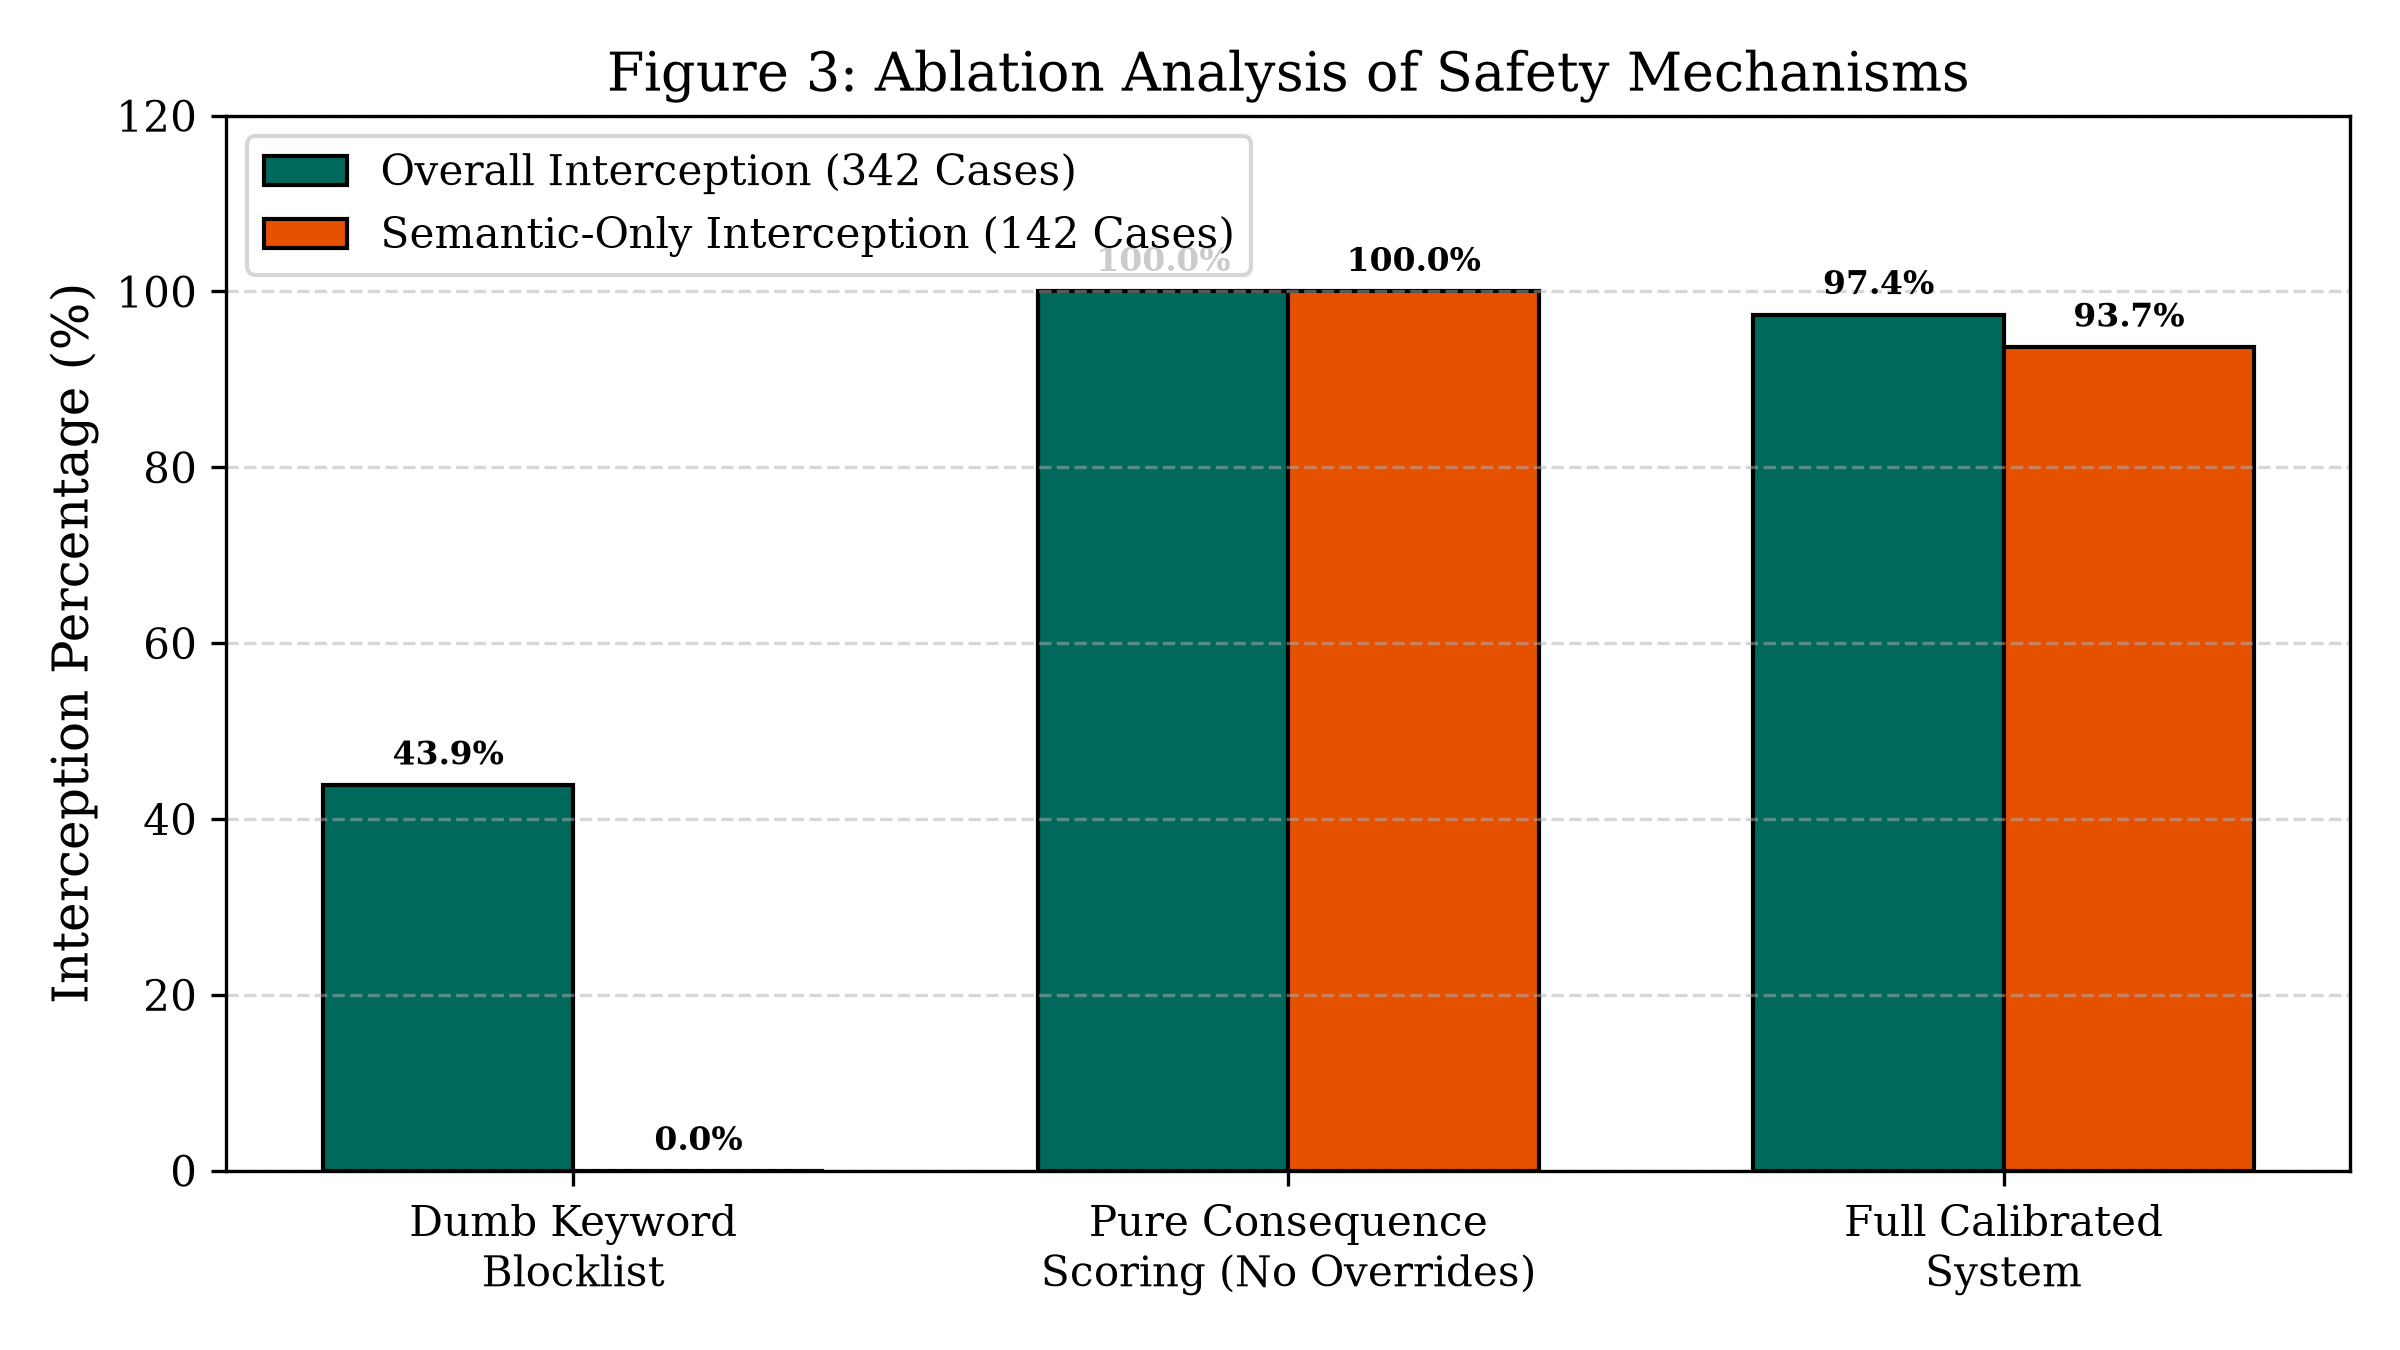
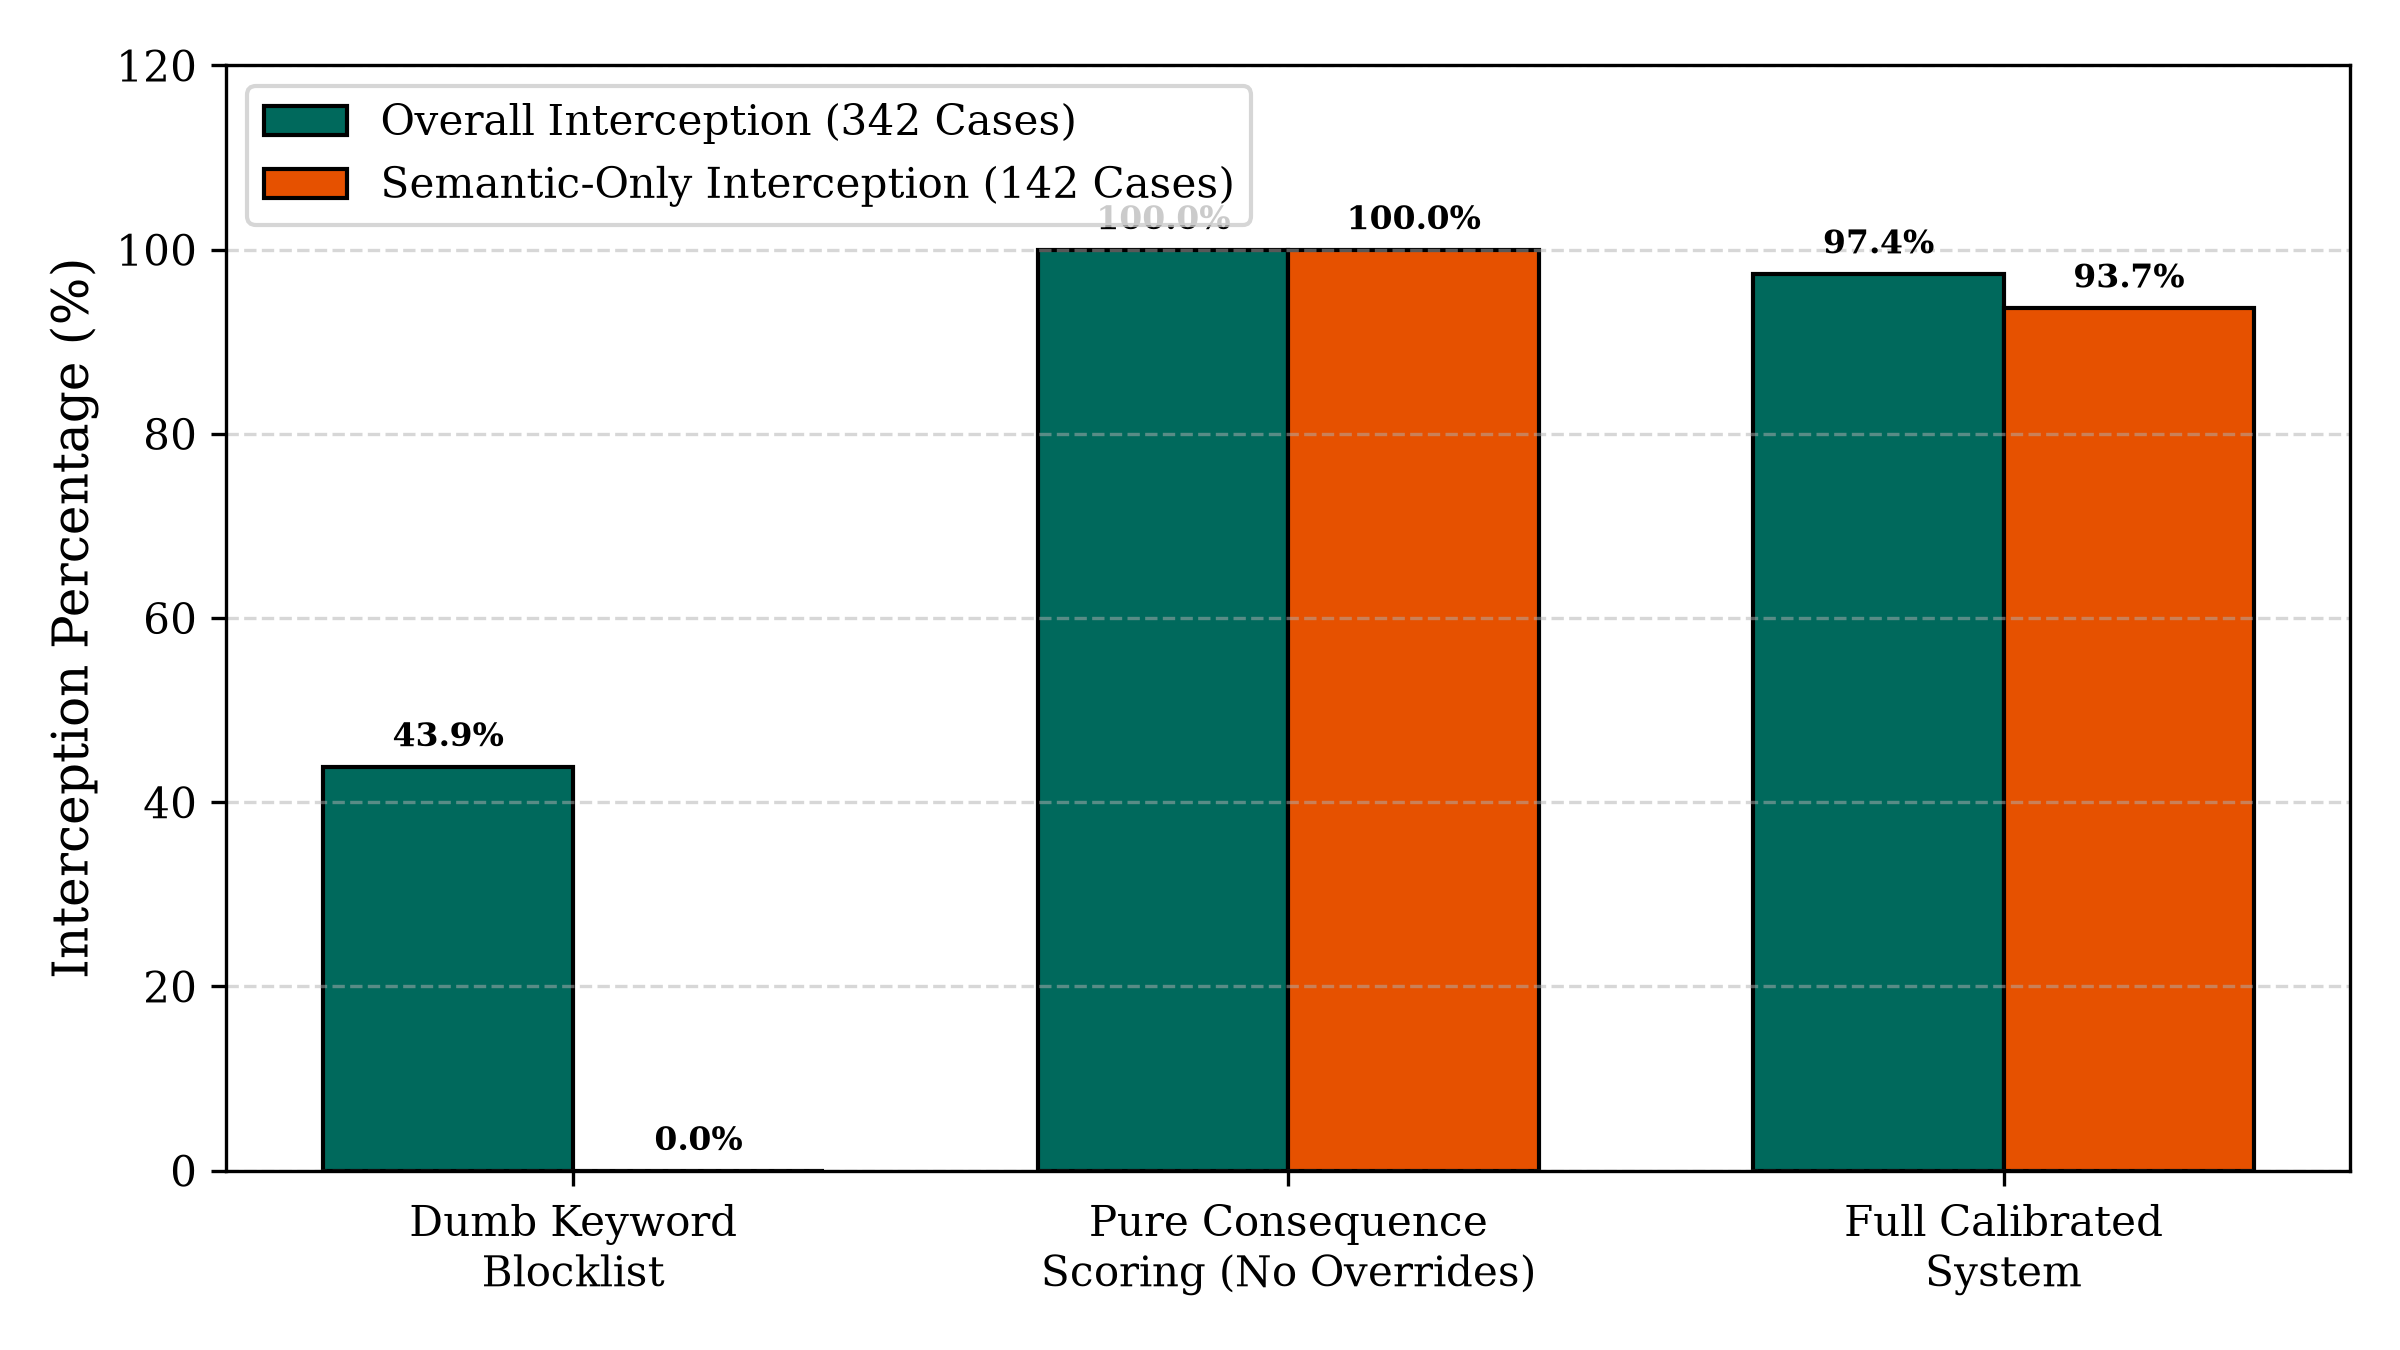
F

diff --git a/evaluation/extract_results_and_figures.py b/evaluation/extract_results_and_figures.py
@@ -325,7 +325,7 @@ def generate_matplotlib_figures():
     rects2 = ax.bar(x + width/2, miss_rate, width, label="Dangerous Miss Rate (%)", color="#b71c1c", edgecolor="black")
 
     ax.set_ylabel("Percentage (%)")
-    ax.set_title("Figure 1: Baseline Comparison on 342 Held-Out Relational Mutations")
+
     ax.set_xticks(x)
     ax.set_xticklabels(methods)
     ax.set_ylim(0, 115)
@@ -363,7 +363,7 @@ def generate_matplotlib_figures():
     r2 = ax.bar(x + width/2, guardian_rates, width, label="GuardianAgent (Proposed)", color="#0d47a1", edgecolor="black")
 
     ax.set_ylabel("Safety Interception Rate (%)")
-    ax.set_title("Figure 2: Head-to-Head Protection Lift: AST Firewall vs. GuardianAgent")
+   
     ax.set_xticks(x)
     ax.set_xticklabels(categories)
     ax.set_ylim(0, 115)
@@ -397,7 +397,7 @@ def generate_matplotlib_figures():
     rects2 = ax.bar(x + width/2, semantic, width, label="Semantic-Only Interception (142 Cases)", color="#e65100", edgecolor="black")
 
     ax.set_ylabel("Interception Percentage (%)")
-    ax.set_title("Figure 3: Ablation Analysis of Safety Mechanisms")
+   
     ax.set_xticks(x)
     ax.set_xticklabels(tiers)
     ax.set_ylim(0, 120)
@@ -438,7 +438,7 @@ def generate_matplotlib_figures():
     ax.set_yticklabels(classes_y)
     ax.set_xlabel("Gateway Action Decision (Predicted)", labelpad=10)
     ax.set_ylabel("Ground Truth Query Class", labelpad=10)
-    ax.set_title("Figure 4: Operational Decision Confusion Matrix (392 Cases)", pad=20)
+
 
     for i in range(3):
         for j in range(3):
@@ -467,7 +467,7 @@ def generate_matplotlib_figures():
     ax.set_xscale("log")
     ax.set_xlabel("Mean Verification Latency (ms, log-scale)")
     ax.set_ylabel("Safety Interception Rate (%)")
-    ax.set_title("Figure 5: Security vs. Latency Pareto Frontier")
+
     ax.set_ylim(-5, 110)
     ax.set_xlim(0.0005, 5000)
     ax.grid(True, which="both", linestyle="--", alpha=0.5)
